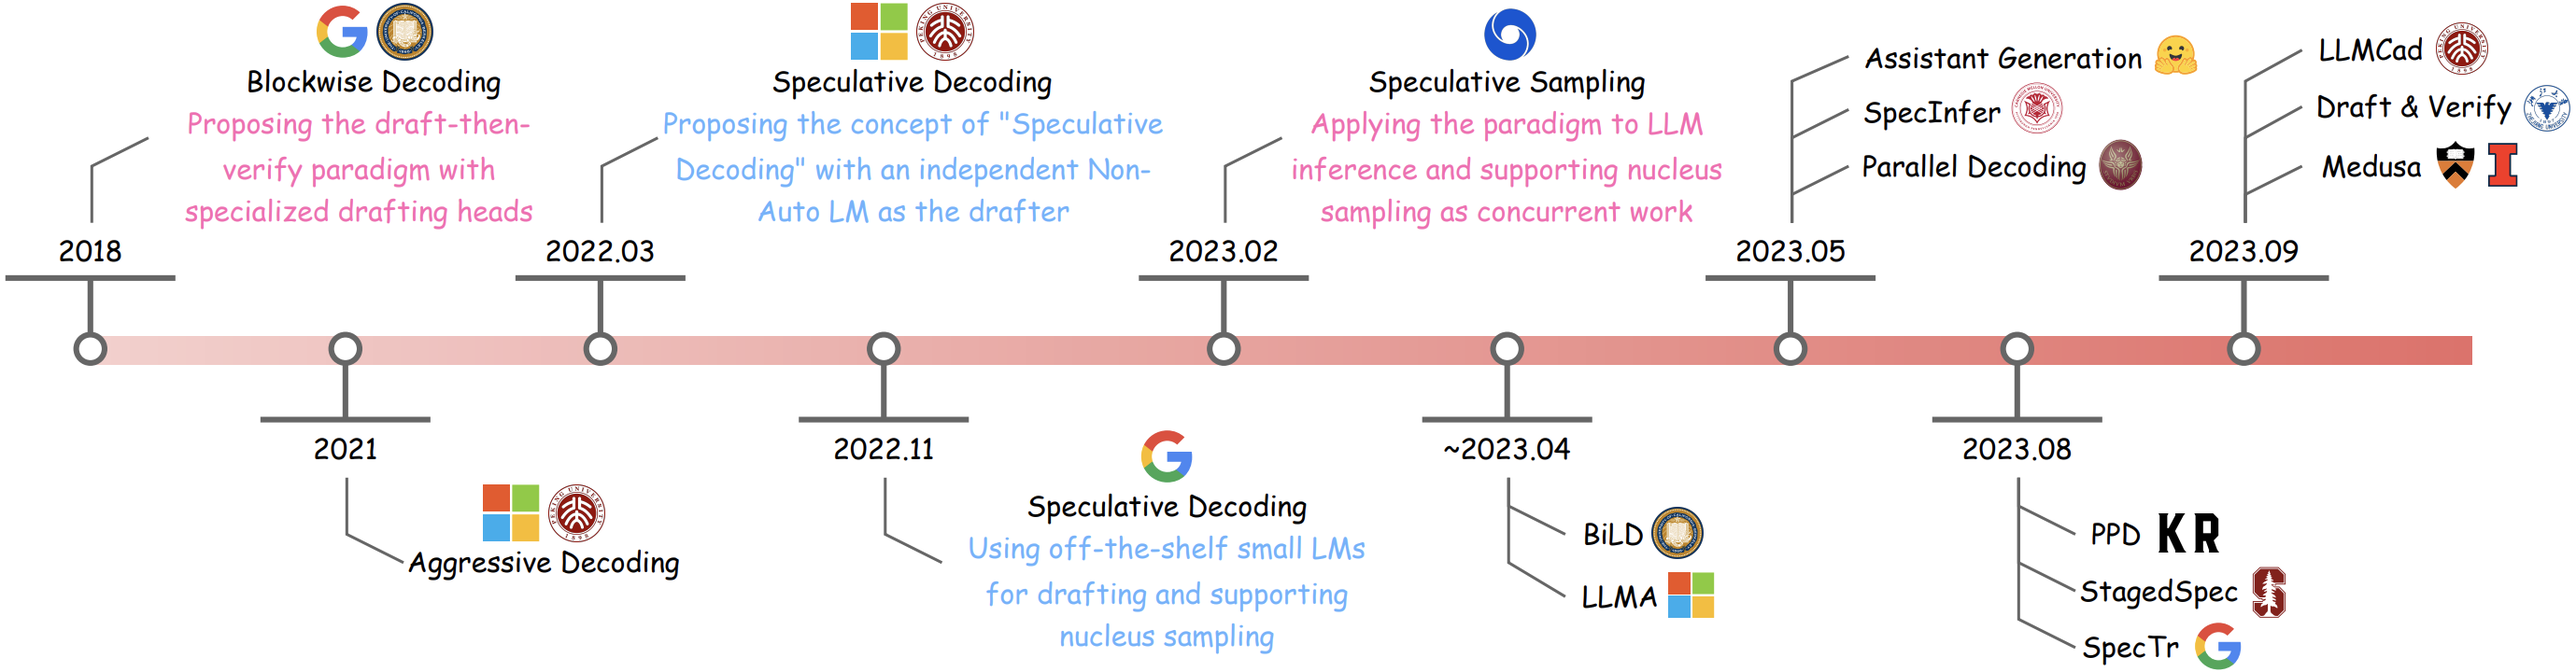
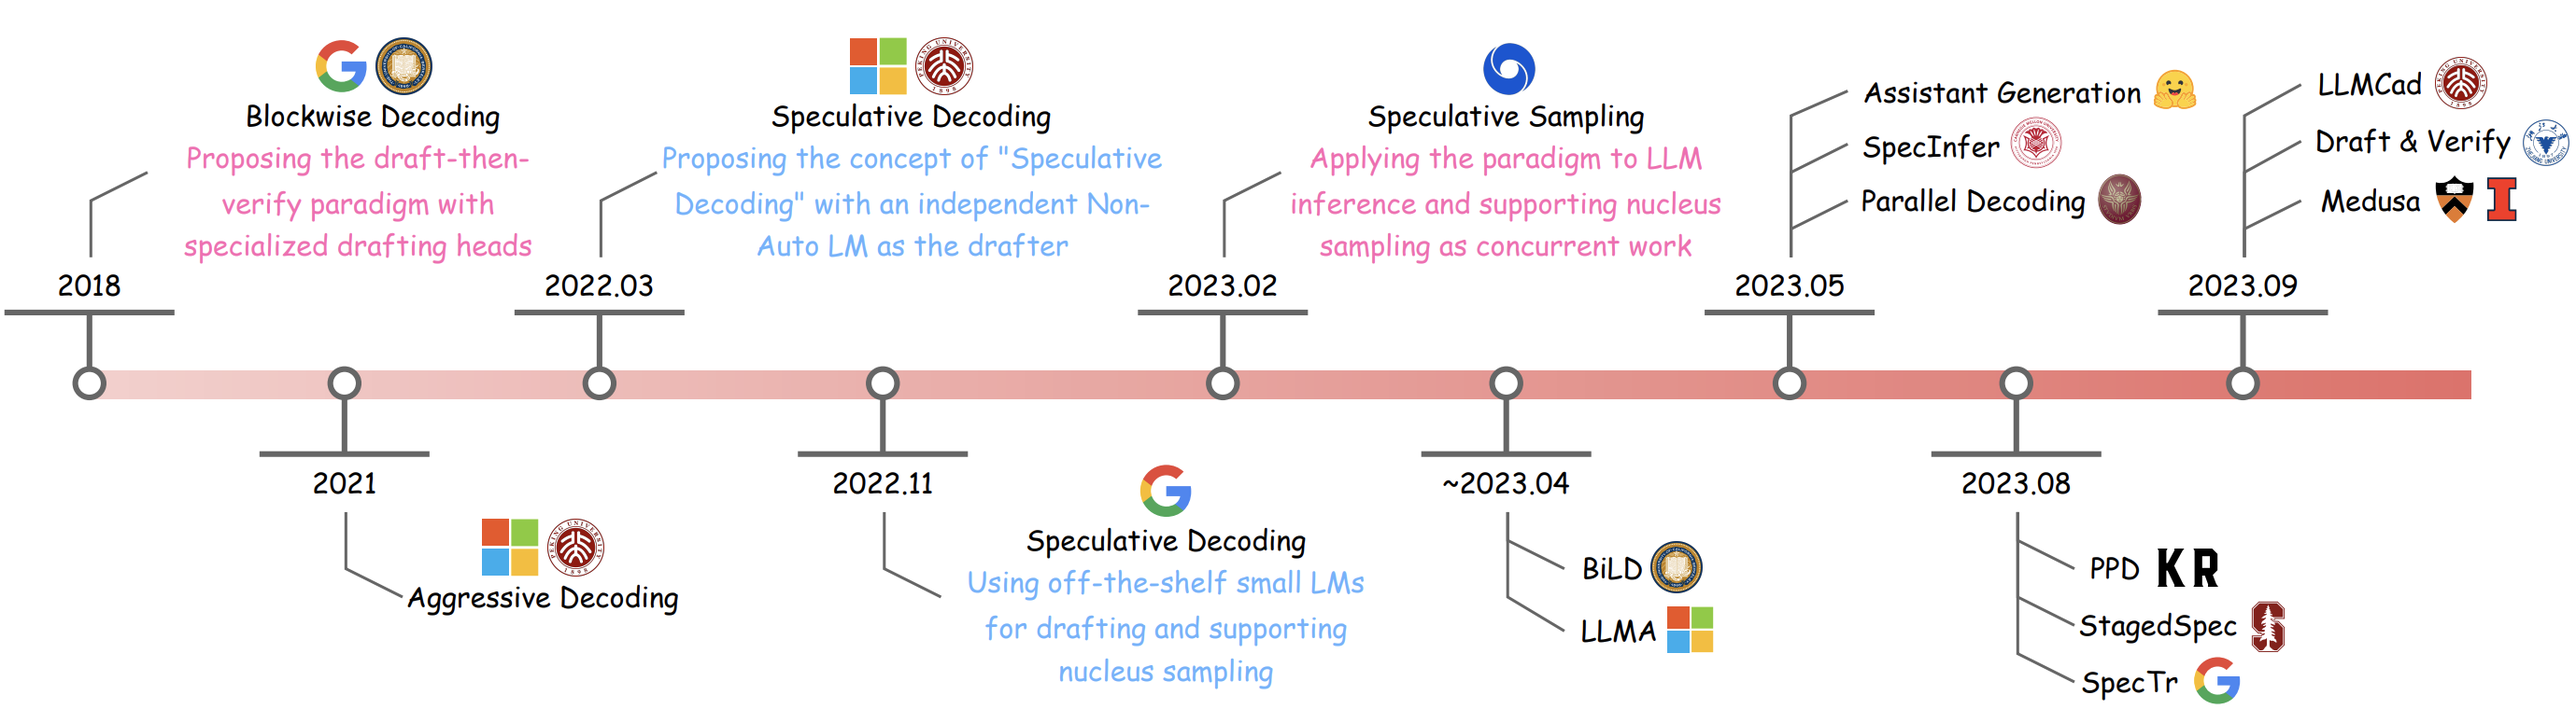
timeline updated

diff --git a/README.md b/README.md
@@ -23,9 +23,6 @@
 <div align="center">
 <sup>3</sup>Microsoft Research Asia <sup>4</sup>Alibaba Group
 </div>
-<div align="center">
-</div>
-
 ![timeline](./assets/timeline.png)
 
 This repository contains a regularly updated paper list for **Speculative Decoding**.
